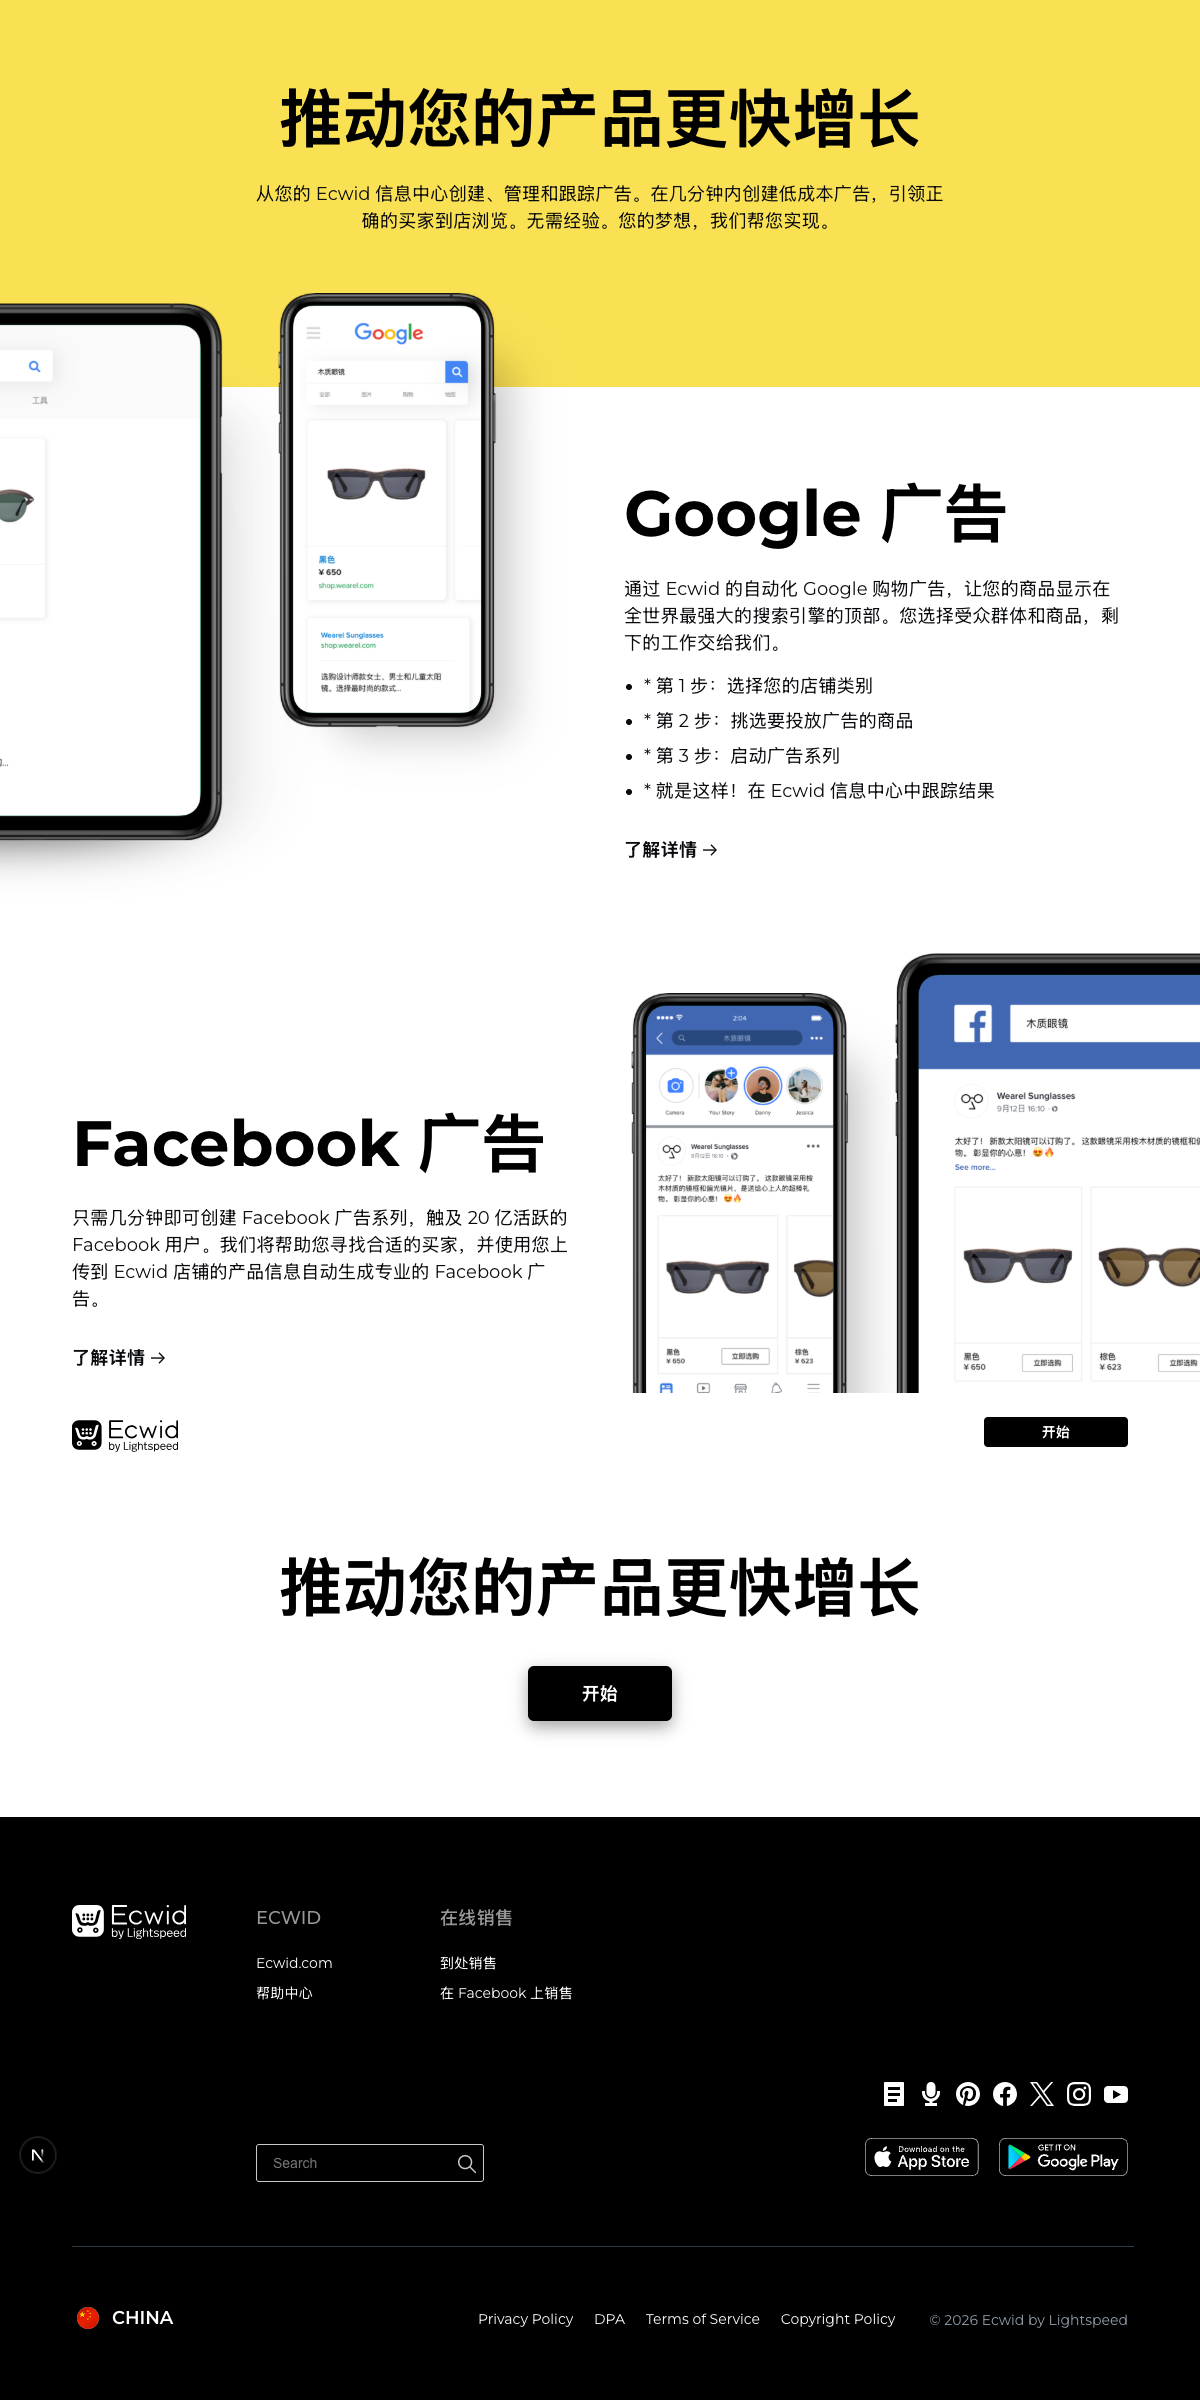
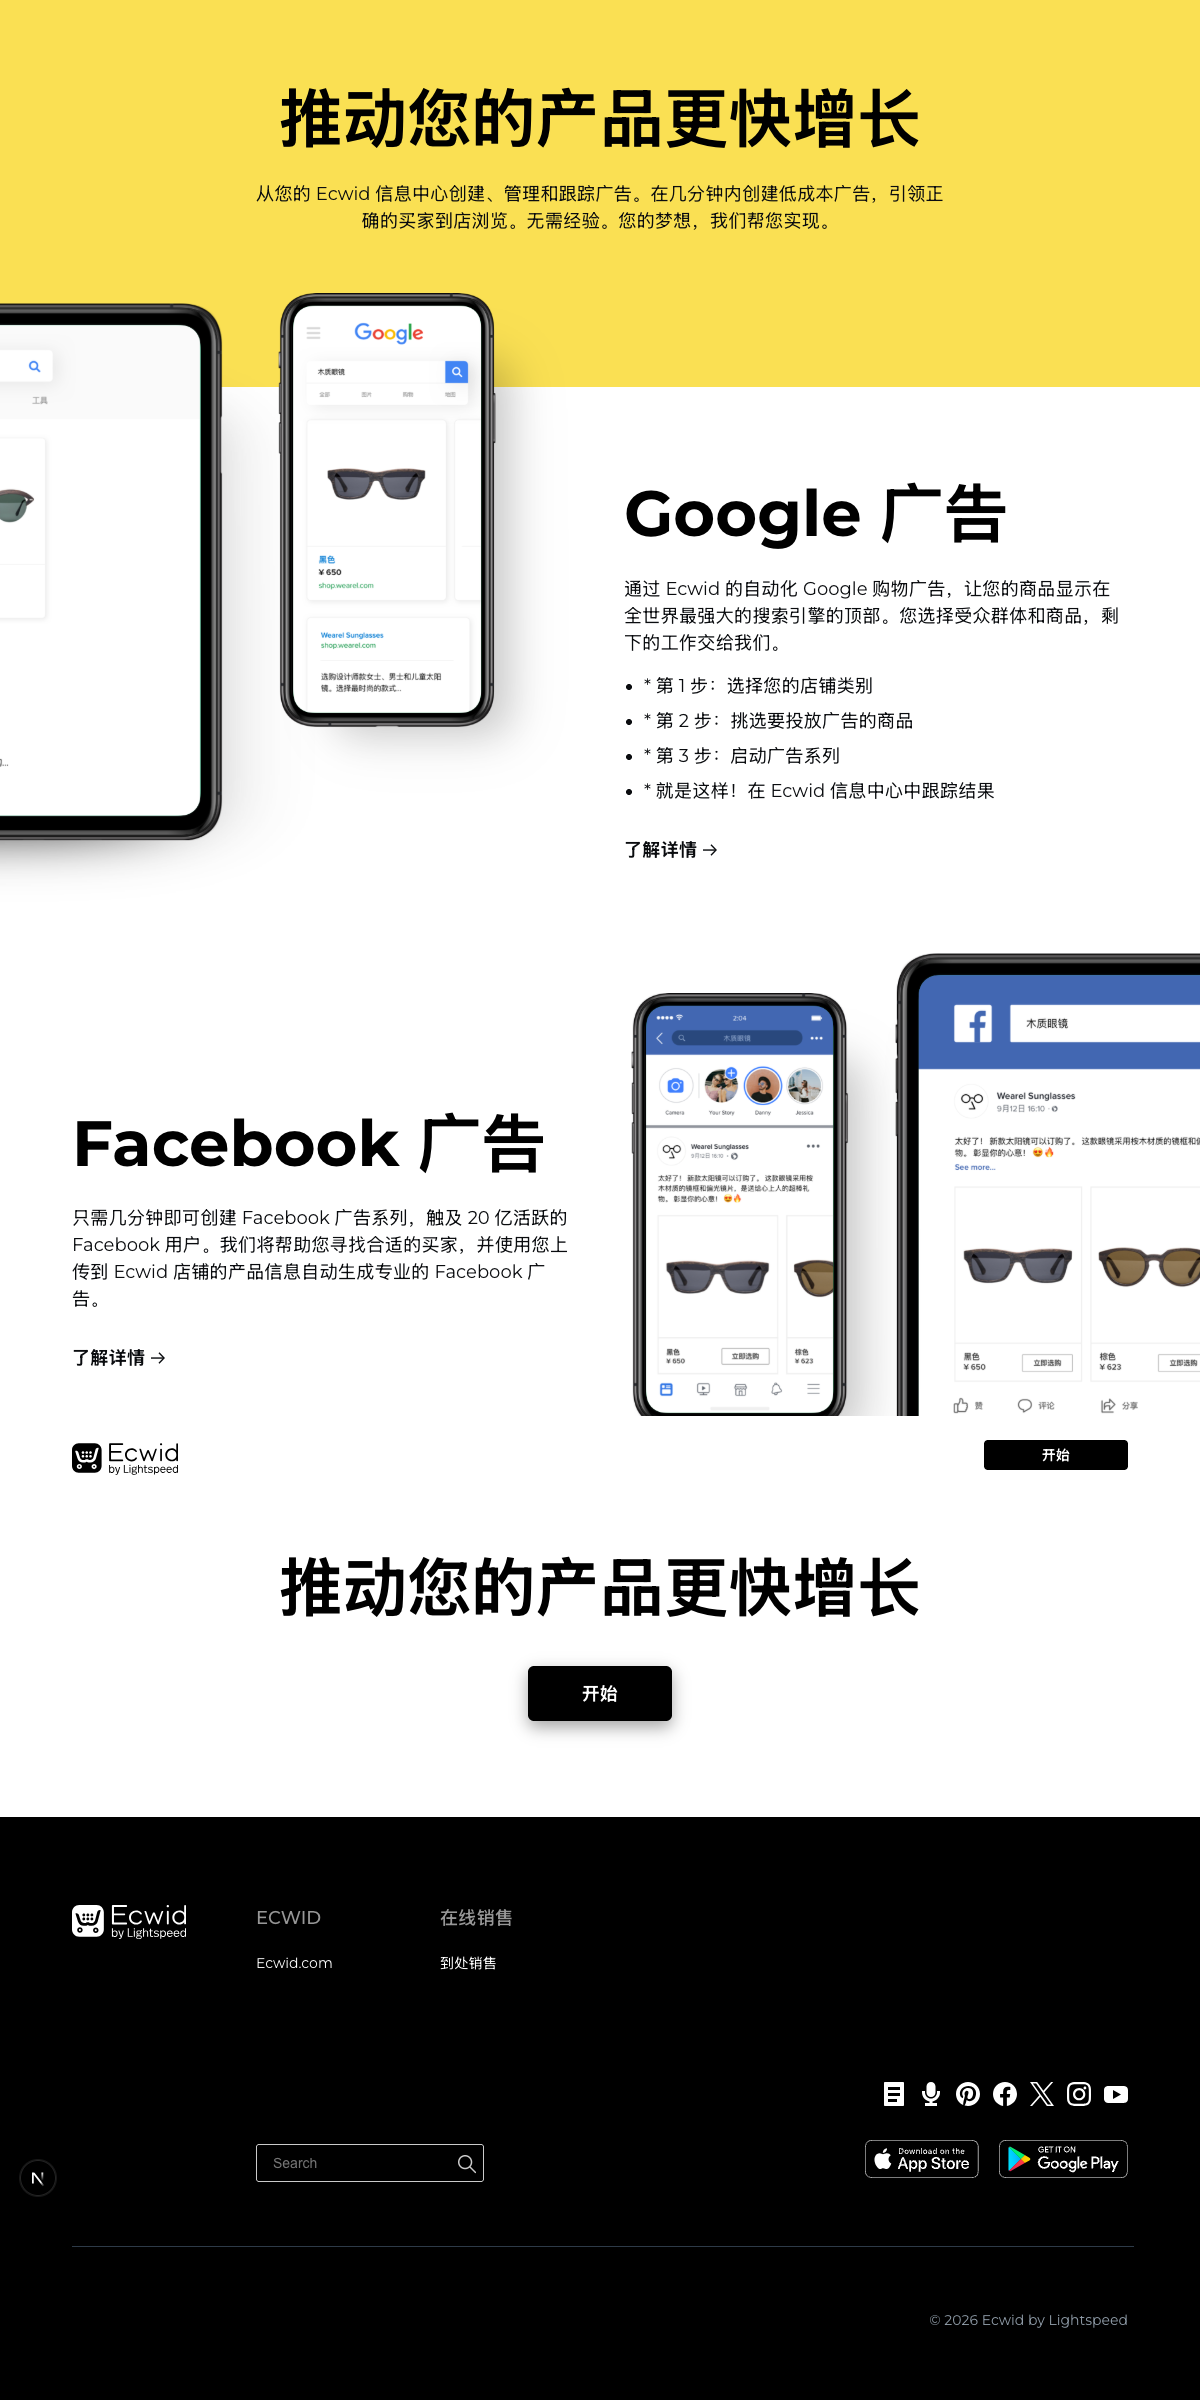
Fix layout and add custom animations to promote page

diff --git a/generate_promote.py b/generate_promote.py
@@ -6,8 +6,7 @@ html_file = "src/app/promote_raw.html"
 with open(html_file, "r") as f:
     html = f.read()
 
-# Fix lazy images (can be quoted or unquoted)
-# Matches data-src="..." or data-src=...
+# Fix lazy images
 html = re.sub(r'data-src="?([^" >]+)"?', r'src="\1"', html)
 html = re.sub(r'data-lazy="?([^" >]+)"?', r'src="\1"', html)
 
@@ -16,6 +15,19 @@ soup = BeautifulSoup(html, "html.parser")
 # Remove scripts, noscripts, iframes
 for tag in soup(["script", "noscript", "iframe"]):
     tag.extract()
+
+# Add safe, custom bounce animations to all text
+for tag_name in ['h1', 'h2', 'h3', 'p', 'li', 'a']:
+    for el in soup.find_all(tag_name):
+        classes = el.get('class', [])
+        classes.append('my-bouncy-text')
+        el['class'] = classes
+
+for img in soup.find_all('img'):
+    classes = img.get('class', [])
+    if 'promote-paralax__layer' not in classes:
+        classes.append('my-bouncy-text')
+        img['class'] = classes
 
 body = soup.find("body")
 
@@ -32,20 +44,33 @@ export default function PromotePage() {{
     const observer = new IntersectionObserver((entries) => {{
       entries.forEach(entry => {{
         if (entry.isIntersecting) {{
-          entry.target.classList.add('hpc-animate--animated', 'animate--animated', 'hpc-slider__slide--animated', 'promote-hero--animated', 'promote-paralax--animated');
+          entry.target.classList.add('is-visible');
           observer.unobserve(entry.target);
         }}
       }});
     }}, {{ threshold: 0.1 }});
 
-    const elements = document.querySelectorAll('.hpc-animate, .animate, .hpc-slider__slide, .hpc-pics__bg, .hpc-slider__layer, .promote-hero, .promote-paralax, .promote-paralax__layer');
+    const elements = document.querySelectorAll('.my-bouncy-text, .promote-paralax');
     elements.forEach(el => observer.observe(el));
     
     return () => observer.disconnect();
   }}, []);
 
   return (
-    <div dangerouslySetInnerHTML={{{{ __html: `{body_html}` }}}} />
+    <>
+      <style dangerouslySetInnerHTML={{{{__html: `
+        .my-bouncy-text {{
+            opacity: 0;
+            transform: translateY(30px);
+            transition: opacity 0.8s ease-out, transform 0.8s cubic-bezier(0.175, 0.885, 0.32, 1.275);
+        }}
+        .my-bouncy-text.is-visible {{
+            opacity: 1;
+            transform: translateY(0);
+        }}
+      `}}}} />
+      <div dangerouslySetInnerHTML={{{{ __html: `{body_html}` }}}} />
+    </>
   );
 }}
 """
@@ -54,4 +79,4 @@ os.makedirs("src/app/promote", exist_ok=True)
 with open("src/app/promote/page.tsx", "w") as f:
     f.write(react_code)
 
-print("Created src/app/promote/page.tsx with fixed unquoted src")
+print("Created src/app/promote/page.tsx with CUSTOM bouncy animations!")